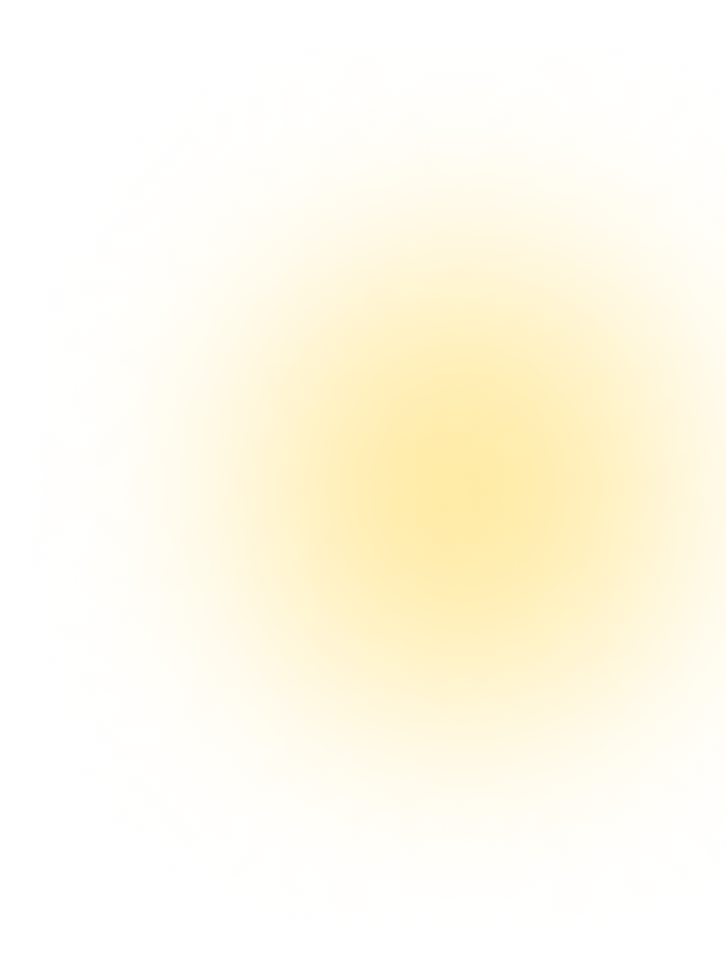
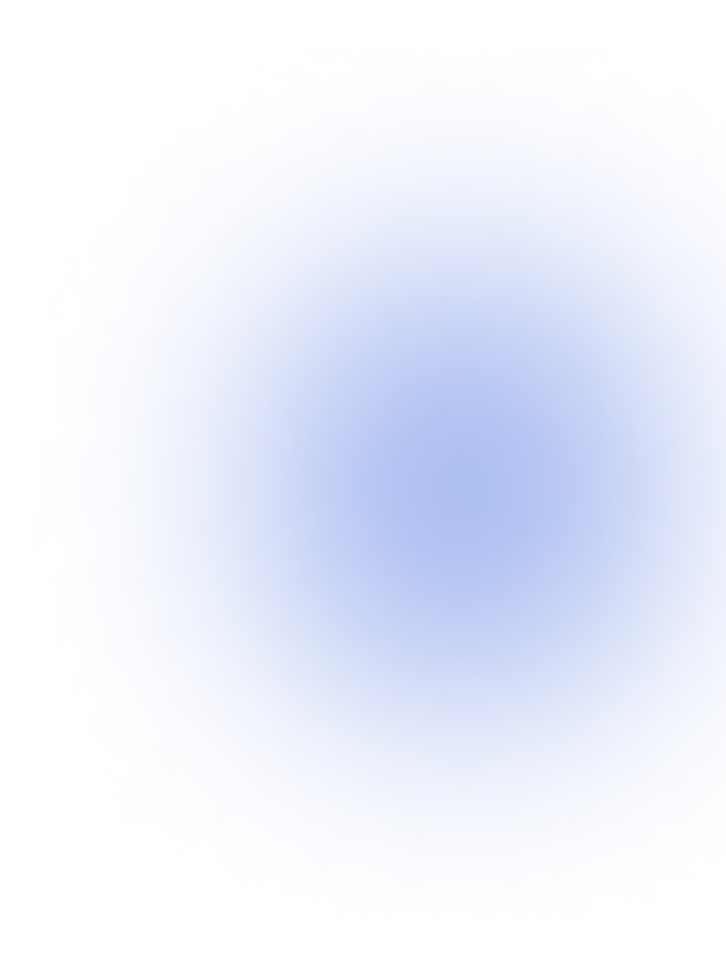
updated shadow color

Changed region(s): [[0.2727, 0.2154, 1.0, 0.7692]]

diff --git a/src/components/Home/Home.jsx b/src/components/Home/Home.jsx
@@ -100,8 +100,8 @@ function Home() {
         <section
           id="contact"
           className="bg-black text-center text-white p-10 md:p-14 2xl:p-20 w-[360px]  lg:w-[1124px] 2xl:w-[1424px] lg:h-[70.5dvh] 2xl:h-[56dvh] overflow-auto mx-auto"
-          data-aos="fade-up"
-          data-aos-duration="1500"
+          // data-aos="fade-up"
+          // data-aos-duration="1500"
         >
           <div className="relative space-y-4">
             {/* LinkedIn icon */}
